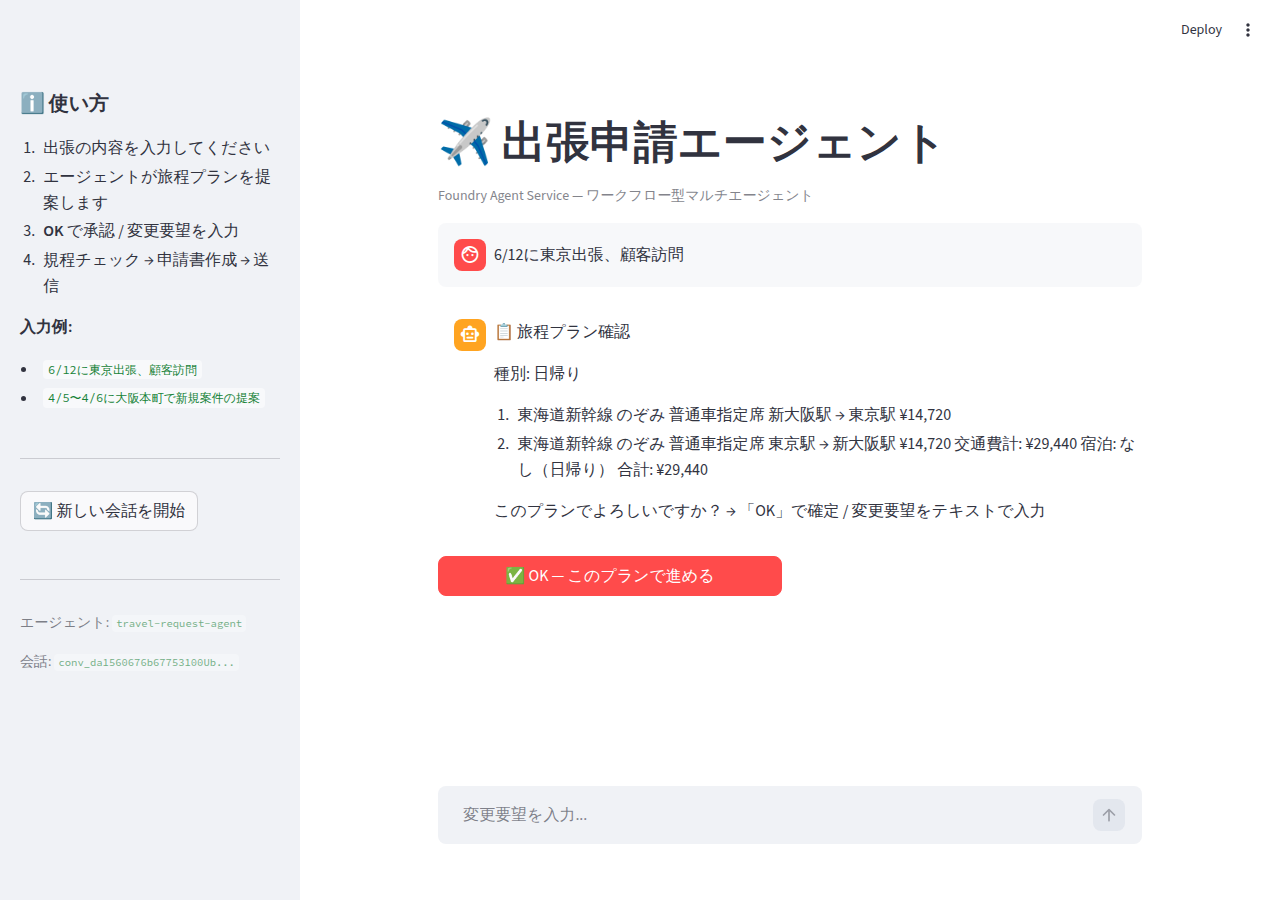
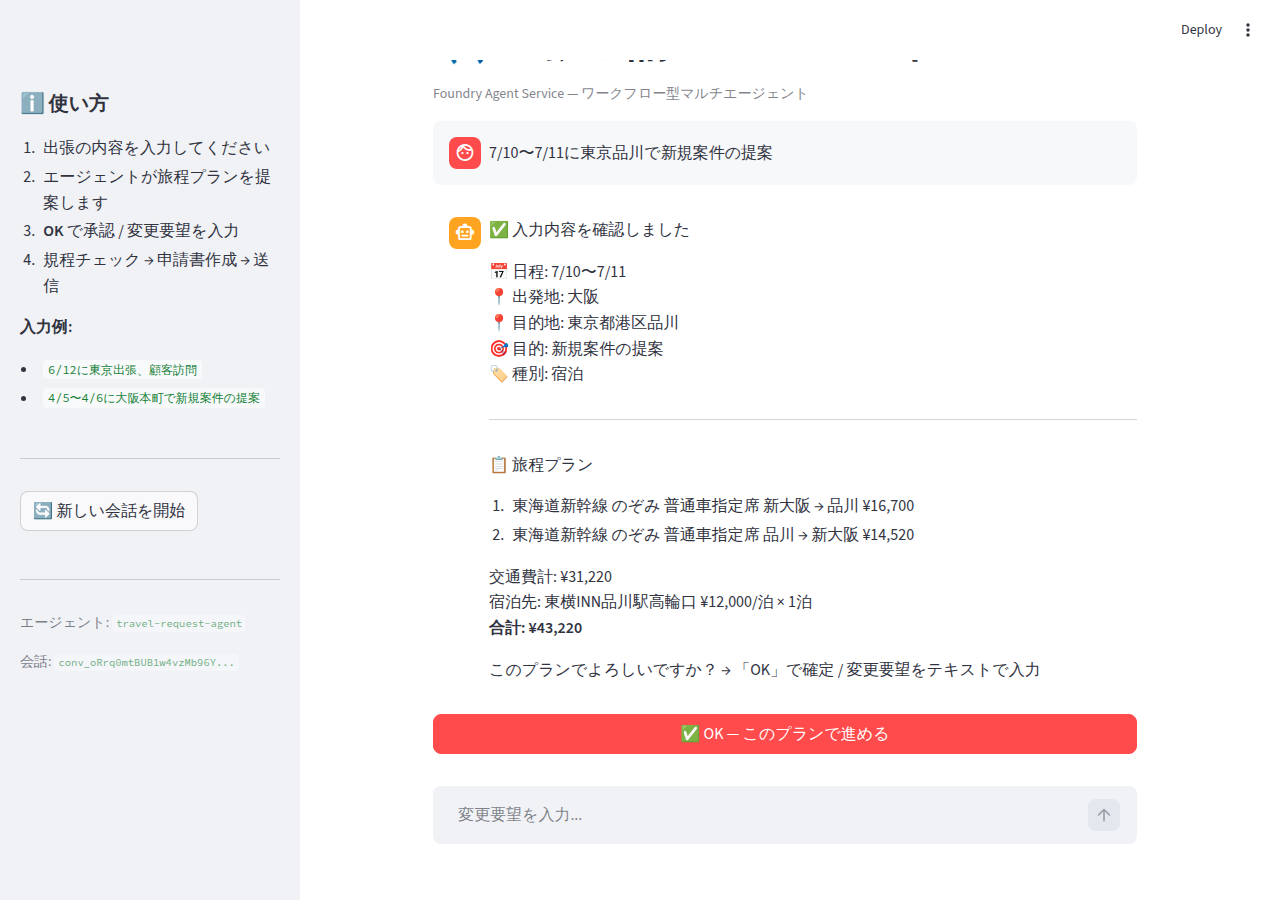
入力内容表示追加 + ホテル変更シナリオ対応
- build_agents.py: TravelPlanner JSON に departure/destination/purpose/schedule 追加
- app.py: プラン表示前に入力内容（日程・出発地・目的地・目的・種別）を表示
- app.py: OKボタンに一意key付与（HITL更新時の自動送信バグ修正）
- build_agents.py: FoundryFeaturesOptInKeys import を条件付きに変更

diff --git a/src/app.py b/src/app.py
@@ -260,7 +260,27 @@ def _format_plan_review(args_str: str, args: dict) -> str:
     try:
         plan = json.loads(plan_text)
         trip_type = plan.get("trip_type", "宿泊")
-        parts: list[str] = [f"📋 旅程プラン確認\n\n種別: {trip_type}\n"]
+
+        # --- 入力内容の確認 ---
+        header = "✅ 入力内容を確認しました\n\n"
+        schedule = plan.get("schedule", "")
+        departure = plan.get("departure", "")
+        destination = plan.get("destination", "")
+        purpose = plan.get("purpose", "")
+        items: list[str] = []
+        if schedule:
+            items.append(f"📅 日程: {schedule}")
+        if departure:
+            items.append(f"📍 出発地: {departure}")
+        if destination:
+            items.append(f"📍 目的地: {destination}")
+        if purpose:
+            items.append(f"🎯 目的: {purpose}")
+        items.append(f"🏷 種別: {trip_type}")
+        header += "  \n".join(items)
+
+        # --- 旅程プラン ---
+        parts: list[str] = [header + "\n\n---\n\n📋 旅程プラン\n"]
 
         for i, leg in enumerate(plan.get("transportation_legs", []), 1):
             parts.append(
@@ -425,7 +445,8 @@ for msg in st.session_state.messages:
 # HITL 承認待ちの場合、種別に応じたボタンを表示
 if st.session_state.hitl_call_id:
     if st.session_state.hitl_type == "plan_review":
-        if st.button("✅ OK — このプランで進める", use_container_width=True, type="primary"):
+        btn_key = f"ok_btn_{st.session_state.hitl_call_id}"
+        if st.button("✅ OK — このプランで進める", use_container_width=True, type="primary", key=btn_key):
             process_user_input("OK")
             st.rerun()
     # clarification の場合はチャット入力のみ（ボタン不要）

diff --git a/src/build_agents.py b/src/build_agents.py
@@ -20,12 +20,16 @@ from azure.ai.projects.models import (
     BingGroundingSearchConfiguration,
     BingGroundingSearchToolParameters,
     BingGroundingTool,
-    FoundryFeaturesOptInKeys,
     FunctionTool,
     HostedAgentDefinition,
     PromptAgentDefinition,
     ProtocolVersionRecord,
 )
+
+try:
+    from azure.ai.projects.models import FoundryFeaturesOptInKeys
+except ImportError:
+    FoundryFeaturesOptInKeys = None
 from azure.identity import DefaultAzureCredential
 from dotenv import load_dotenv, set_key
 
@@ -114,6 +118,10 @@ AGENTS = [
 
 ```json
 {
+  "departure": "出発地（例: 大阪）",
+  "destination": "目的地（例: 東京品川）",
+  "purpose": "出張目的（例: 顧客訪問）",
+  "schedule": "日程（例: 7/10〜7/11）",
   "trip_type": "日帰り or 宿泊",
   "transportation_legs": [
     {"method": "交通手段（例: 新幹線のぞみ 普通車指定席）", "from": "出発駅", "to": "到着駅", "cost": 片道金額（円、整数）},
@@ -123,7 +131,6 @@ AGENTS = [
   "hotel": "ホテル名 or null（日帰りの場合）",
   "hotel_cost_per_night": 1泊料金 or null（円、整数）,
   "hotel_nights": 泊数 or null（整数）,
-  "schedule": "スケジュール概要",
   "total_cost": 合計金額（円、整数）,
   "distance_km": 片道距離（km、数値）,
   "travel_time_hours": 片道所要時間（時間、数値）
